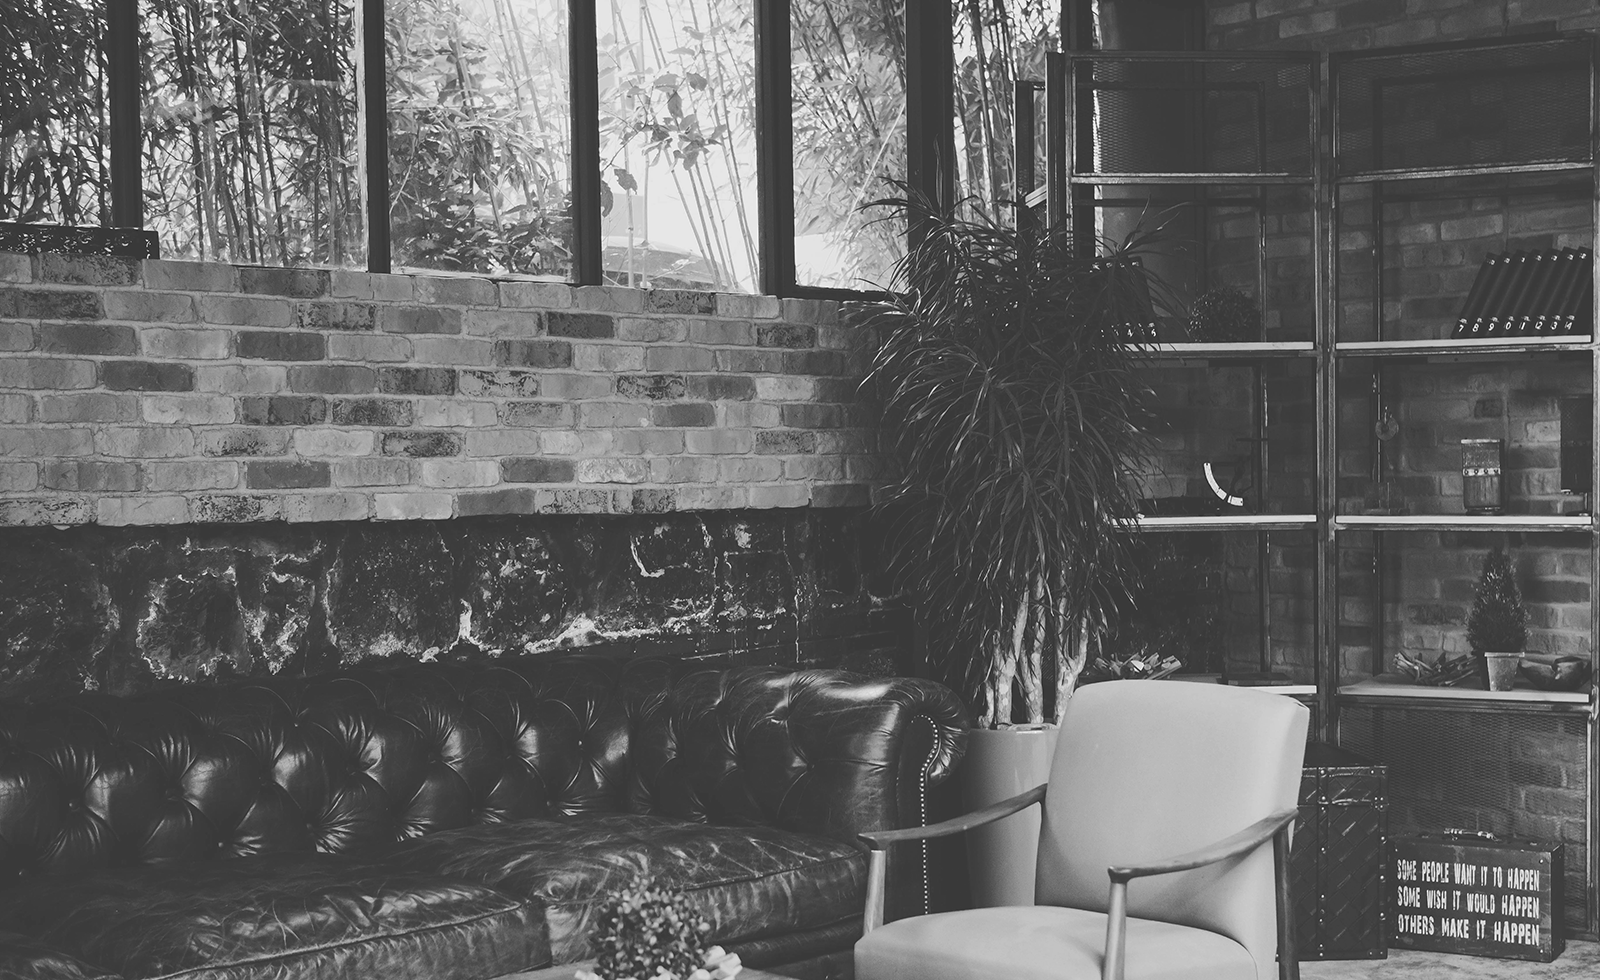
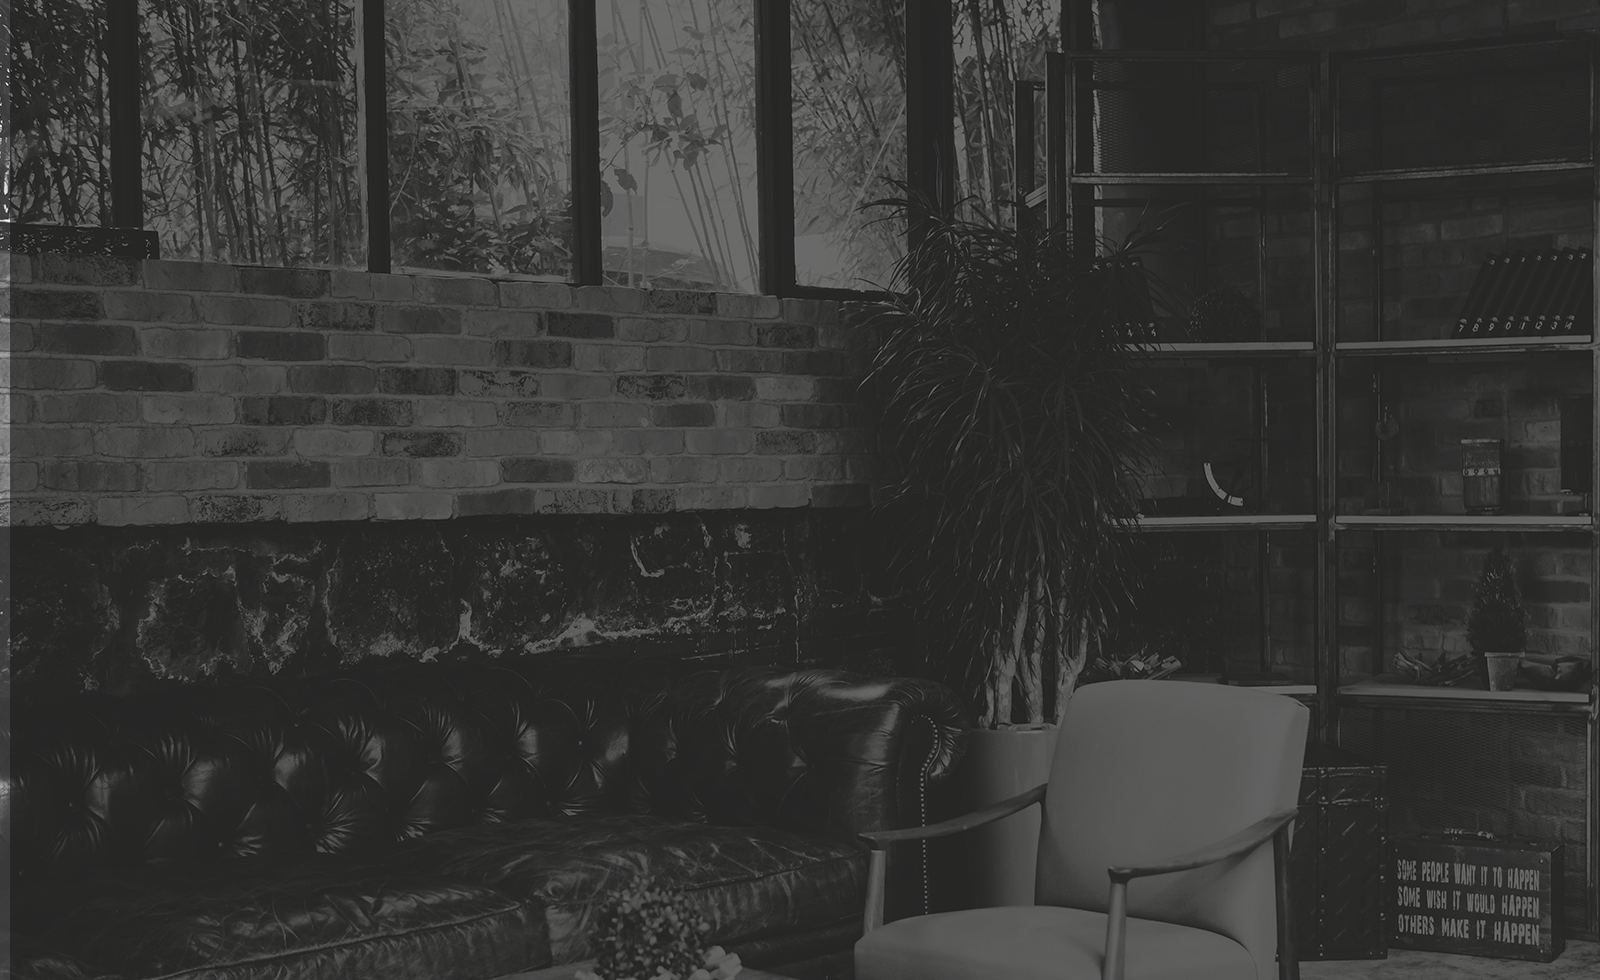
added maaany changes

diff --git a/css/components/blog.css b/css/components/blog.css
@@ -1,0 +1,84 @@
+.blog {
+    height: 860px;
+    width: 100%;
+}
+
+.blog__title {
+    font-size: 40px;
+    letter-spacing: 4px;
+    color: #181817;
+    font-weight: 600;
+    font-family: "Poppins";
+    padding-top: 102px;
+    text-align: center;
+    margin: 0;
+    position: relative;
+}
+
+.blog__title::before {
+    content: "";
+    background-color:#181817;
+    width: 230px;
+    height: 1px;
+    position: absolute;
+    bottom: -32px;
+    left: 340px;
+
+}
+
+.blog__title::after {
+    content: "";
+    background-color: black;
+    width: 230px;
+    height: 1px;
+    position: absolute;
+    bottom: -32px;
+    right: 340px;
+}
+
+.blog__images {
+    display: flex;
+    margin-top: 75px;
+}
+ 
+.blog__subtitle {
+    font-size: 20px;
+    color: #000000;
+    font-weight: 600;
+    font-family: "Poppins";
+    margin-left: 20px;
+}
+
+.blog__description {
+    width: 329px;
+    font-size: 14px;
+    color: #31302d;
+    font-weight: 400;
+    font-family: "Poppins";
+    margin-left: 20px;
+}
+
+.btn__text {
+    display: inline-block;
+    align-items: center;
+    box-sizing: border-box;
+    font-style: normal;
+    line-height: 28px;
+    text-decoration: none;
+    font-size: 14px;
+    letter-spacing: 1px;
+    font-weight: 600;
+    font-family: "Poppins";
+}
+
+.blog__btn {
+    padding: 10px 20px;
+    color: var(--white);
+    outline: none;
+    border: none;
+    cursor: pointer;
+    margin-left: 20px;
+    background-color: #ffce76;
+    height: 50px;
+    width: 160px;
+}

diff --git a/css/components/header.css b/css/components/header.css
@@ -1,20 +1,22 @@
-
- .icon1 {
-     width: 10;
- }
- .icon2 {
-     width: 10;
- }
- .icon3 {
-     width: 10;
- }
- .header {
+.icon1 {
+    width: 10;
+}
+.icon2 {
+    width: 10;
+}
+.icon3 {
+    width: 10;
+}
+.header {
     padding-top: 30px;
     width: 100%;
+    height: 100px;
     z-index: 4;
-    background-color: black;
- }
- .header__row {
+    background-color: #181817;
+    align-items: center;
+    font-family: "Poppins";
+}
+.header__row {
     display: flex;
     align-items: center;
 }
@@ -22,25 +24,35 @@
     display: flex;
     padding: 0;
 }
+
+.nav__menu::before {
+    content: "";
+    background-color: #ffce76;
+    width: 230px;
+    height: 1px;
+    position: absolute;
+    bottom: 0px;
+    right: 0px;
+}
+
 .nav__item {
-    list-style-type:none;
-    margin-left: 46px;                          
+    list-style-type: none;
+    margin-left: 46px;
 }
 .nav__link {
     color: white;
     text-decoration: none;
-    }
-    .social {
-        display: flex;
-    }
-    .social__item {
-        list-style:none;
-        margin-left: 25px;
-    }
-    .block {
-        width: 100px;
-        height: 100px;
-        padding: 100px;
-        box-sizing: border-box;
-    }
-   
+}
+.social {
+    display: flex;
+}
+.social__item {
+    list-style: none;
+    margin-left: 25px;
+}
+.block {
+    width: 100px;
+    height: 100px;
+    padding: 100px;
+    box-sizing: border-box;
+}

diff --git a/index.html b/index.html
@@ -51,7 +51,7 @@
         <div class="plenka black-opacity">
             <div class="container">
                 <div class="hero__content">
-                    <h6 class="hero__suptitle">Welcome To Pahu Design</h6>
+                    <h6 class="hero__subtitle">Welcome To Pahu Design</h6>
                     <h1 class="hero__title">YOU ARE IN GOOD
                         HAND WITH US</h1>
                 </div>

diff --git a/css/index.css b/css/index.css
@@ -7,5 +7,7 @@
 @import './components/header.css';
 @import './components/hero.css';
 @import './components/collection.css';
-@import './components/designer.css'
+@import './components/designer.css';
+@import './components/blog.css';
+@import './components/project.css'
 

diff --git a/css/components/designer.css b/css/components/designer.css
@@ -81,7 +81,6 @@
 
 .designer__column {
     max-width: 460px;
-    margin: auto;
-    margin-top: -40px;
+    margin-top: -20px;
     text-align: center;
 }

diff --git a/css/components/collection.css b/css/components/collection.css
@@ -1,7 +1,7 @@
 .collection {
     background-color: #f9fafc;
     width: 100%;
-
+    height: 1210px;
 }
 
 .collection_title {

diff --git a/css/components/project.css b/css/components/project.css
@@ -1,0 +1,4 @@
+.project {
+    height: 1000px;
+    margin-top: 100px;
+}
